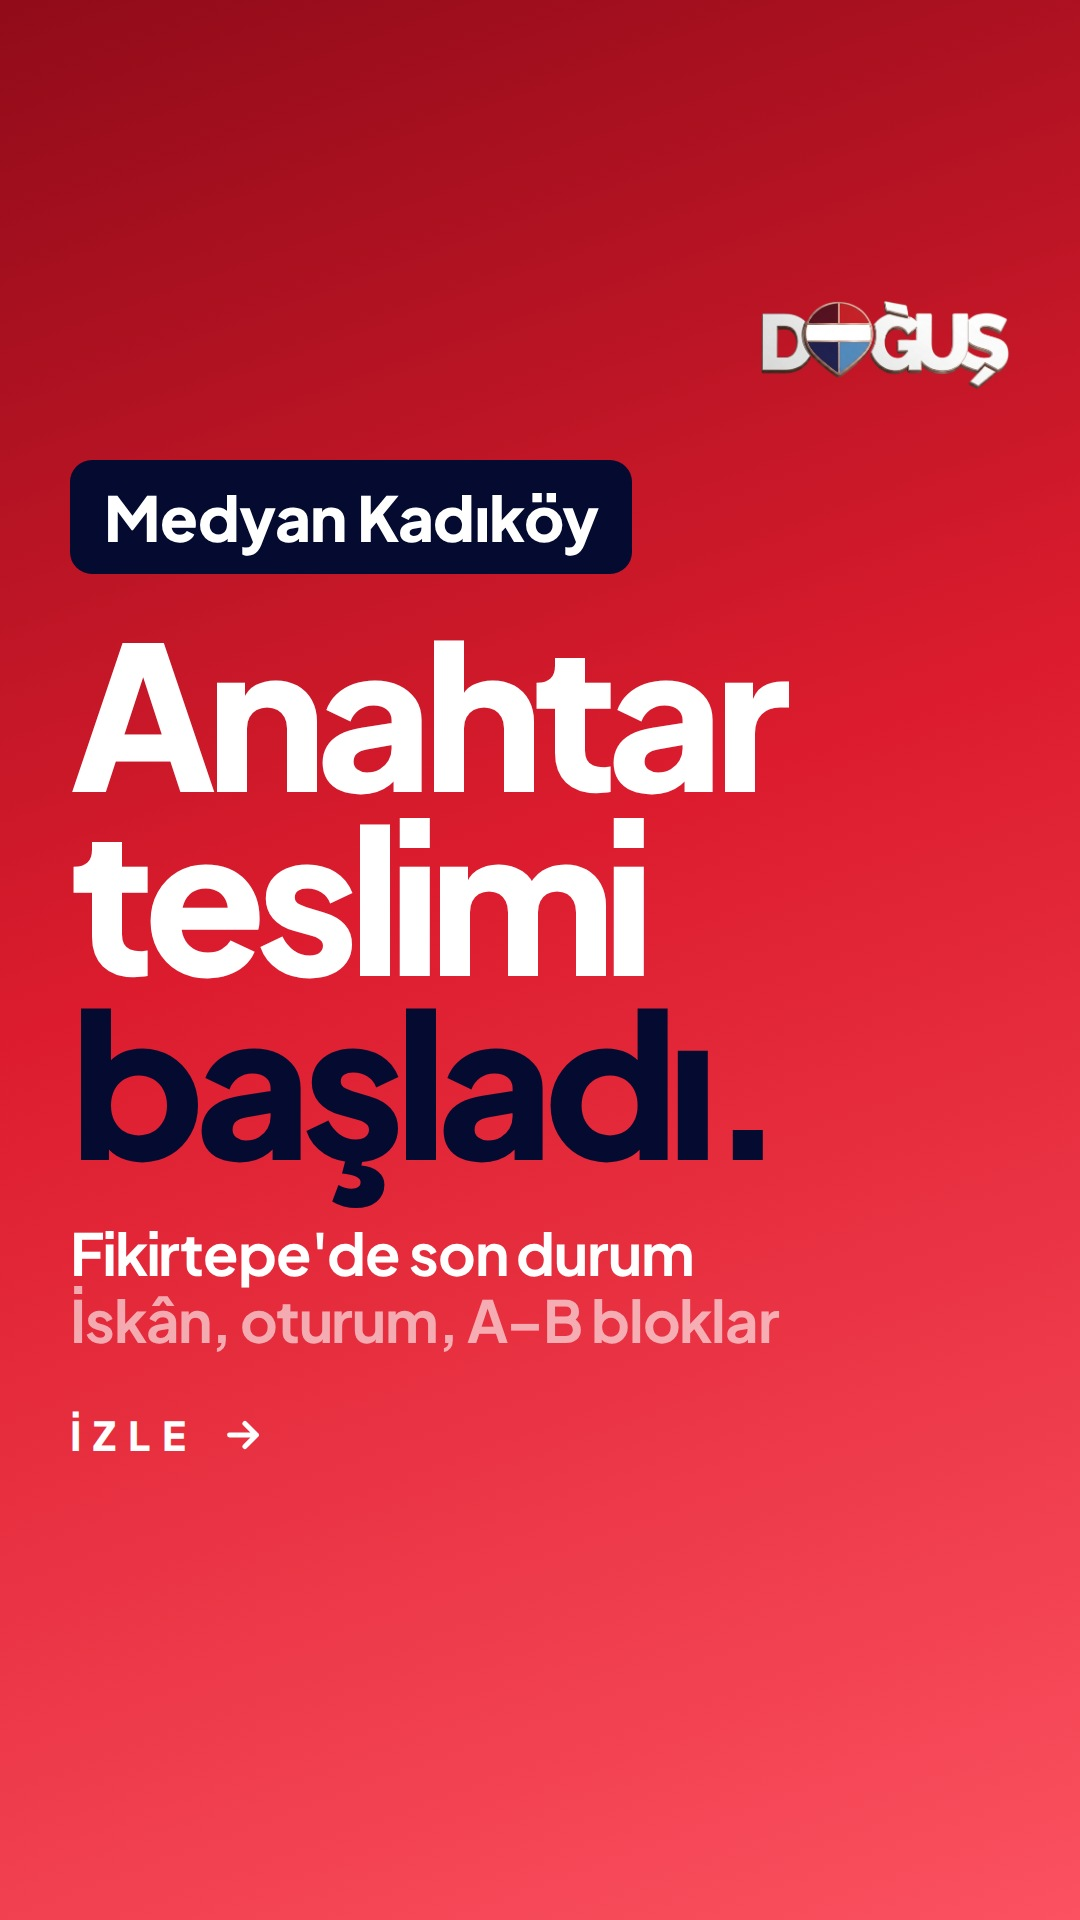
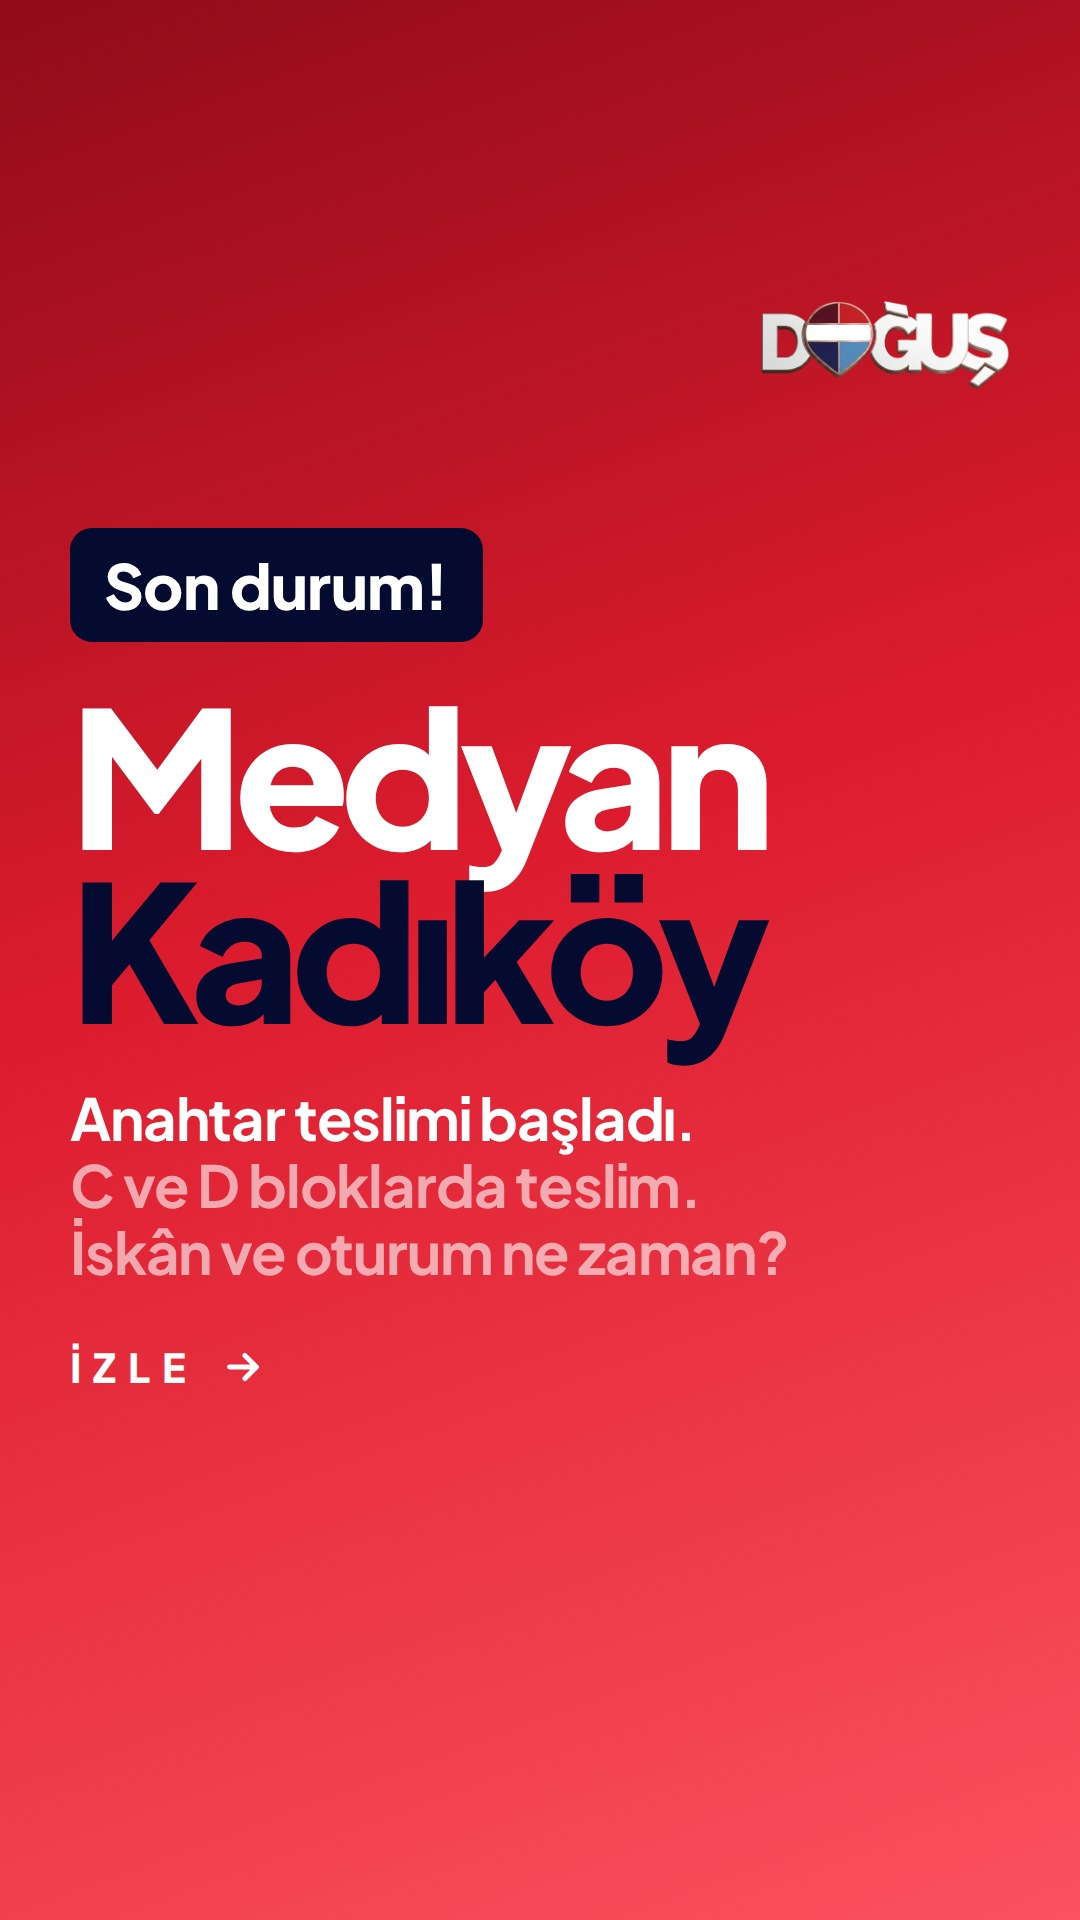
Medyan kapagi Iki Yaka ve Uplife kapaklariyla ayni duzene getirildi
Claude-Session: https://claude.ai/code/session_01WRjv6iEbjtXjTmoaDMzP1n

Changed region(s): [[0.0611, 0.2188, 0.7333, 0.75]]

diff --git a/medyan/kapak-buyuk.html b/medyan/kapak-buyuk.html
@@ -2,7 +2,7 @@
 <html lang="tr">
 <head>
 <meta charset="utf-8">
-<title>Medyan Kadıköy Büyük Kapak</title>
+<title>Medyan Kadıköy Kapak</title>
 <link rel="stylesheet" href="assets/pj.css">
 <style>
 *{box-sizing:border-box;margin:0;padding:0}
@@ -15,7 +15,7 @@ body{background:#000}
 .logo{position:absolute;right:70px;top:70px;width:250px}
 .reel .logo{top:300px}
 .tag{align-self:flex-start;background:#DC1C2E;border-radius:22px;padding:18px 34px;font-weight:800;font-size:62px;letter-spacing:-.01em}
-h1{font-size:200px;font-weight:800;line-height:.92;letter-spacing:-.05em;margin-top:44px}
+h1{font-size:190px;font-weight:800;line-height:.92;letter-spacing:-.05em;margin-top:44px}
 h1 .hl{color:#FB5160}
 .sub{font-size:58px;font-weight:700;line-height:1.15;margin-top:50px;letter-spacing:-.02em}
 .sub span{opacity:.6}
@@ -31,9 +31,9 @@ h1 .hl{color:#FB5160}
 <body>
 <div id="c">
   <img class="logo" src="assets/dogus-logo.png" alt="RE/MAX Doğuş">
-  <div class="tag">Medyan Kadıköy</div>
-  <h1>Anahtar<br>teslimi<br><span class="hl">başladı.</span></h1>
-  <div class="sub">Fikirtepe'de son durum<br><span>İskân, oturum, A–B bloklar</span></div>
+  <div class="tag">Son durum!</div>
+  <h1>Medyan<br><span class="hl">Kadıköy</span></h1>
+  <div class="sub">Anahtar teslimi başladı.<br><span>C ve D bloklarda teslim.<br>İskân ve oturum ne zaman?</span></div>
   <div class="kay">İZLE <svg width="46" height="46" viewBox="0 0 24 24" fill="none" stroke-width="2.6" stroke-linecap="round" stroke-linejoin="round"><path d="M5 12h14M13 6l6 6-6 6"/></svg></div>
 </div>
 <script>document.body.className=['reel','red'].filter(k=>location.search.includes(k)).join(' ');</script>
